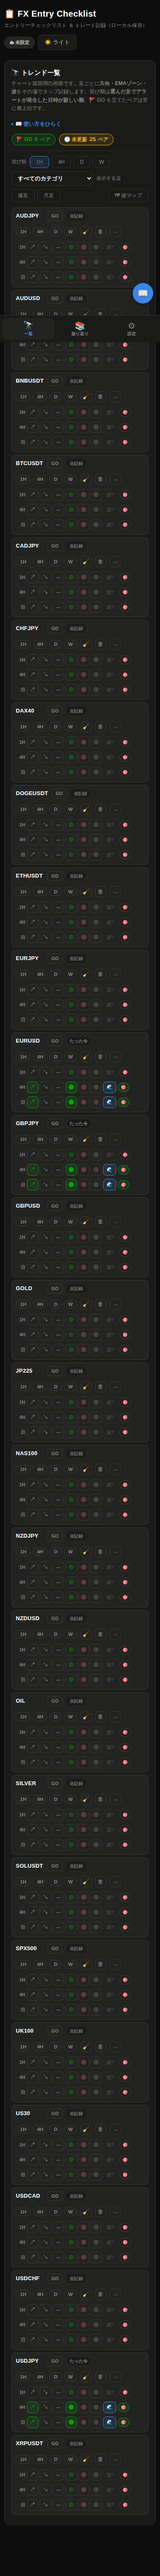
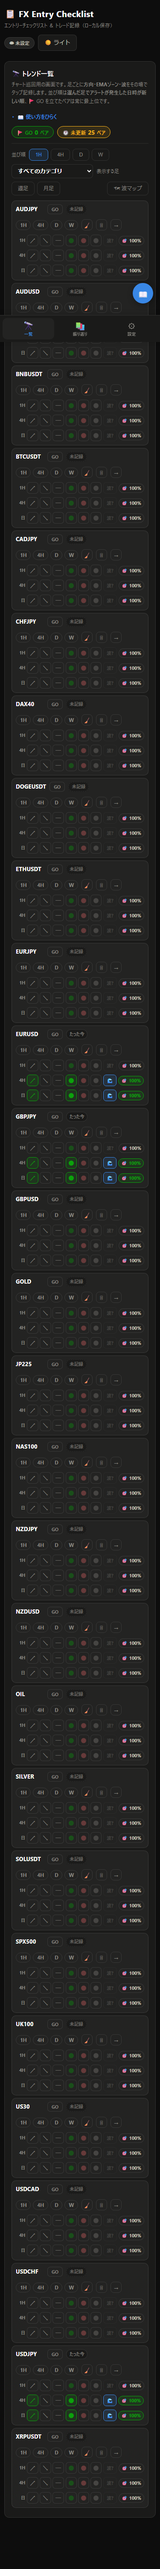
S70: 🎯チップの確度%を375px幅でも常時表示（畳まない）
ユーザー要望「🎯マークをタップしてプルダウンを開かなくても、カードを
スライドしていくだけで各通貨の確度が一目でわかるようにしたい」に対応。

S48以来、375px幅では .tent 内の .d 系スパン（距離%・確度%・「根拠」の
文字）をすべて display:none にして 🎯 アイコンだけ残し、詳細は title
ツールチップでのみ読める設計だった。これだと確度を見るにはタップして
パネルを開くかロングタップでツールチップを出す必要があり、要望の
「スライドするだけで見える」を満たせなかった。

①CSS を `.tent .d { display: none; }` → `.tent .d:not(.conf) { display: none; }`
に変更し、確度スパン（.conf）だけを畳みの対象から除外
②幅を空けるため、確度の表示文言から「確度」の文字を省略し「61%」の
ような数値のみの表示に変更（🎯61% の形で常時見える）

375pxでの入力行1段レイアウト（s44-testの検証項目）は維持されることを
確認（need:319 = has:319、ぎりぎり収まる）。確度の計算ロジック
（higherConfidence()）・データモデル・CSV・端末間マージは無変更。
s44/s43/s42/s62 全テスト通過。sw.js: v39→v40

diff --git a/index.html b/index.html
@@ -1024,9 +1024,11 @@
     .tp-sec .tp-fixed, .tp-sec select.tp-cell { min-width: 84px; }
     #trendGvModal .modal-actions { flex-wrap: wrap; }
     #trendGvModal .modal-actions button { white-space: nowrap; }
-    /* 375px では 🎯 だけ残す（距離と「根拠」は title で読める）。入力行を1段に保つため。 */
+    /* 375px では 🎯＋確度だけ残す（距離と「根拠」の文字は title で読める）。入力行を1段に保つため。
+       S70: 確度（.conf）はタップせずカードをスライドするだけで見えることが目的なので、
+       ここでは畳まない（畳むのは距離%と「根拠」の文字だけ）。 */
     .tent { padding: 3px 6px; }
-    .tent .d { display: none; }
+    .tent .d:not(.conf) { display: none; }
     /* S40: 図はタップ面なので、狭い画面ほど大きく取る（正確に指せることを優先）。 */
     .gv-fig { max-width: calc(52vh * var(--gv-ar-num, 1.773)); }
     .gv-marker { width: 30px; height: 30px; }
@@ -3801,8 +3803,11 @@ function trendEntryChipHtml(w, tfKey) {
   /* ⚠ チップとボタンを1つにまとめてある。375px の入力行に残っている余白は 40px 弱しかなく、
      2要素にすると2段に折り返して巡回の縦スクロールが増える。
      幅を食う「％」と「根拠」は狭い画面では CSS で畳み、title と 🎯 だけ残す。 */
+  /* S70: 確度は「タップしてプルダウンを開かなくても、カードをスライドするだけで見える」
+     ことが目的（ユーザー要望）。375px 幅でも .conf だけは畳まない（CSS 側で除外）。
+     幅を取る「確度」の文字は省き、数値のみ（🎯61%）にして横幅を切り詰める。 */
   const pct = d === null ? '' : '<span class="d">' + Math.round(d) + '%</span>';
-  const body = '🎯' + pct + '<span class="d conf">確度' + conf + '%</span><span class="d">根拠</span>';
+  const body = '🎯' + pct + '<span class="d conf">' + conf + '%</span><span class="d">根拠</span>';
   const title = (d === null ? 'この足の根拠を記録' : 'エントリー水準まで ' + d.toFixed(1) + '%') +
     '／確度 ' + conf + '%';
   if (!MV_TREND_KEY_TO_TF[tfKey])

diff --git a/sw.js b/sw.js
@@ -6,7 +6,7 @@
  * ⚠ index.html を更新したら CACHE の版番号を上げること。
  *   上げ忘れても HTML は network-first なので最新が届くが、assets の差し替えは届かない。
  */
-const CACHE = 'fx-checklist-v39';
+const CACHE = 'fx-checklist-v40';
 
 /* 起動に最低限必要なもの。画像は重いので事前取得せず、使われたときに入れる。 */
 const PRECACHE = ['./', './index.html', './manifest.webmanifest',
